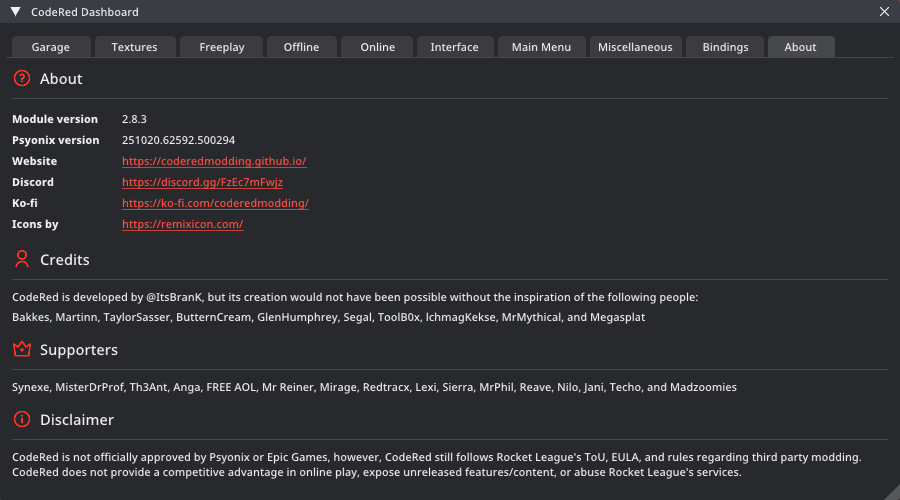
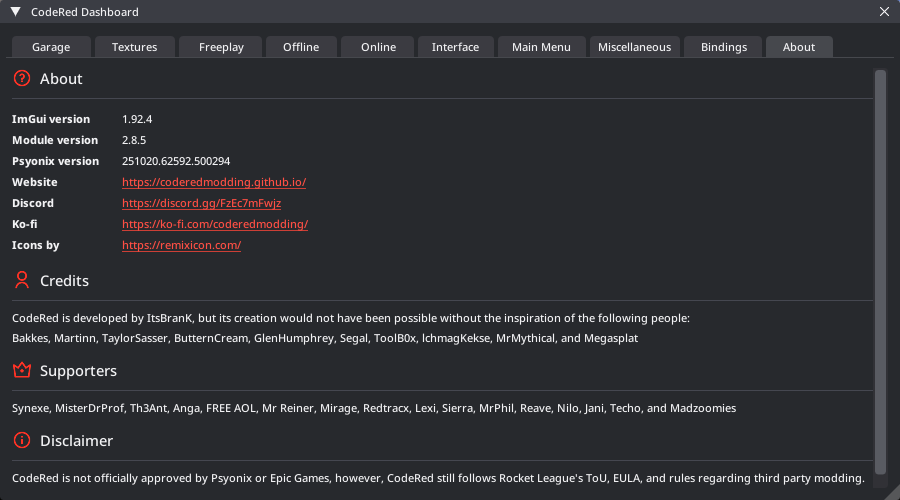
Initial Commit

diff --git a/changelog.html b/changelog.html
@@ -62,6 +62,7 @@
 		    <nav id="docs-nav" class="docs-nav navbar">
 			    <ul class="section-items list-unstyled nav flex-column pb-3">
                     <li class="nav-item section-title mt-3"><a class="nav-link scrollto" href="#section-3"><span class="theme-icon-holder me-2"><i class="fas fa-book"></i></span>Module Changelog</a></li>
+                    <li class="nav-item"><a class="nav-link scrollto" href="#item-3-8-5">Version 2.8.5</a></li>
                     <li class="nav-item"><a class="nav-link scrollto" href="#item-3-8-4">Version 2.8.4</a></li>
                     <li class="nav-item"><a class="nav-link scrollto" href="#item-3-8-3">Version 2.8.3</a></li>
                     <li class="nav-item"><a class="nav-link scrollto" href="#item-3-8-2">Version 2.8.2</a></li>
@@ -201,6 +202,14 @@
 		    <div class="container">
                 <article class="docs-article" id="section-3">
                     <h1 class="docs-heading">Changelog</h1>
+
+                        <section class="docs-section" id="item-3-8-5">
+                            <h2 class="section-heading">Version 2.8.5 (November 8th 2025)</h2>
+                            <h5>- Upgraded the internal ImGui framework to version 1.92.4, which changes how fonts are rasterized and rendered.</h5>
+                            <h5>- Added over a dozen new setting and color options for custom styles that came with the new ImGui version.</h5>
+                            <h5>- Improvements and crash fixes to users that had UTF32 characters in their computer or system path name.</h5>
+                            <h5>- Safety improvements to parsing custom styles and applying colors.</h5>
+                        </section>
 
                         <section class="docs-section" id="item-3-8-4">
                             <h2 class="section-heading">Version 2.8.4 (November 1st 2025)</h2>
